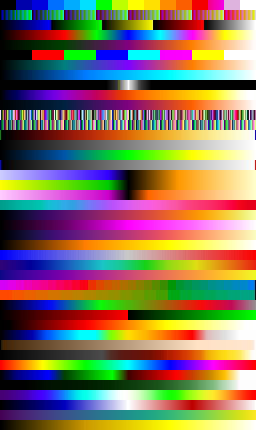
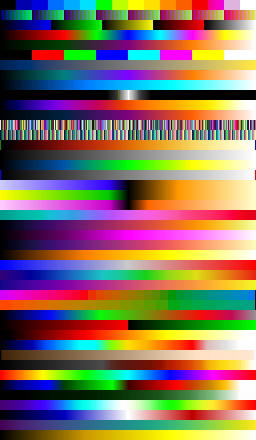
cividis LUT from Nuñez et al 2018

diff --git a/src/css/figure.css b/src/css/figure.css
@@ -1031,7 +1031,7 @@
 
     .lutBg {
         /* NB: when updating png, consider using different name to avoid cache */
-        background-size: 100% 2150px;  /* height is stretched 5x (50px per LUT) */
+        background-size: 100% 2200px;  /* height is stretched 5x (50px per LUT) */
         background-repeat: no-repeat;
     }
 
@@ -1042,7 +1042,7 @@
         height: 100%;
         z-index: -1;
         background-image: var(--lutPng);   /* each lut is 10px high */
-        background-size: 100% 2150px;  /* height is stretched 5x (50px per LUT) */
+        background-size: 100% 2200px;  /* height is stretched 5x (50px per LUT) */
         background-repeat: no-repeat;
         transform: scaleX(var(--scaleX));
         background-position: var(--bgPos);

diff --git a/src/js/views/lutpicker.js b/src/js/views/lutpicker.js
@@ -42,6 +42,7 @@ var LutPickerView = Backbone.View.extend({
                 "6_shades.lut",
                 "blue_orange_icb.lut",
                 "brgbcmyw.lut",
+                "cividis.lut",
                 "cool.lut",
                 "cyan_hot.lut",
                 "edges.lut",
